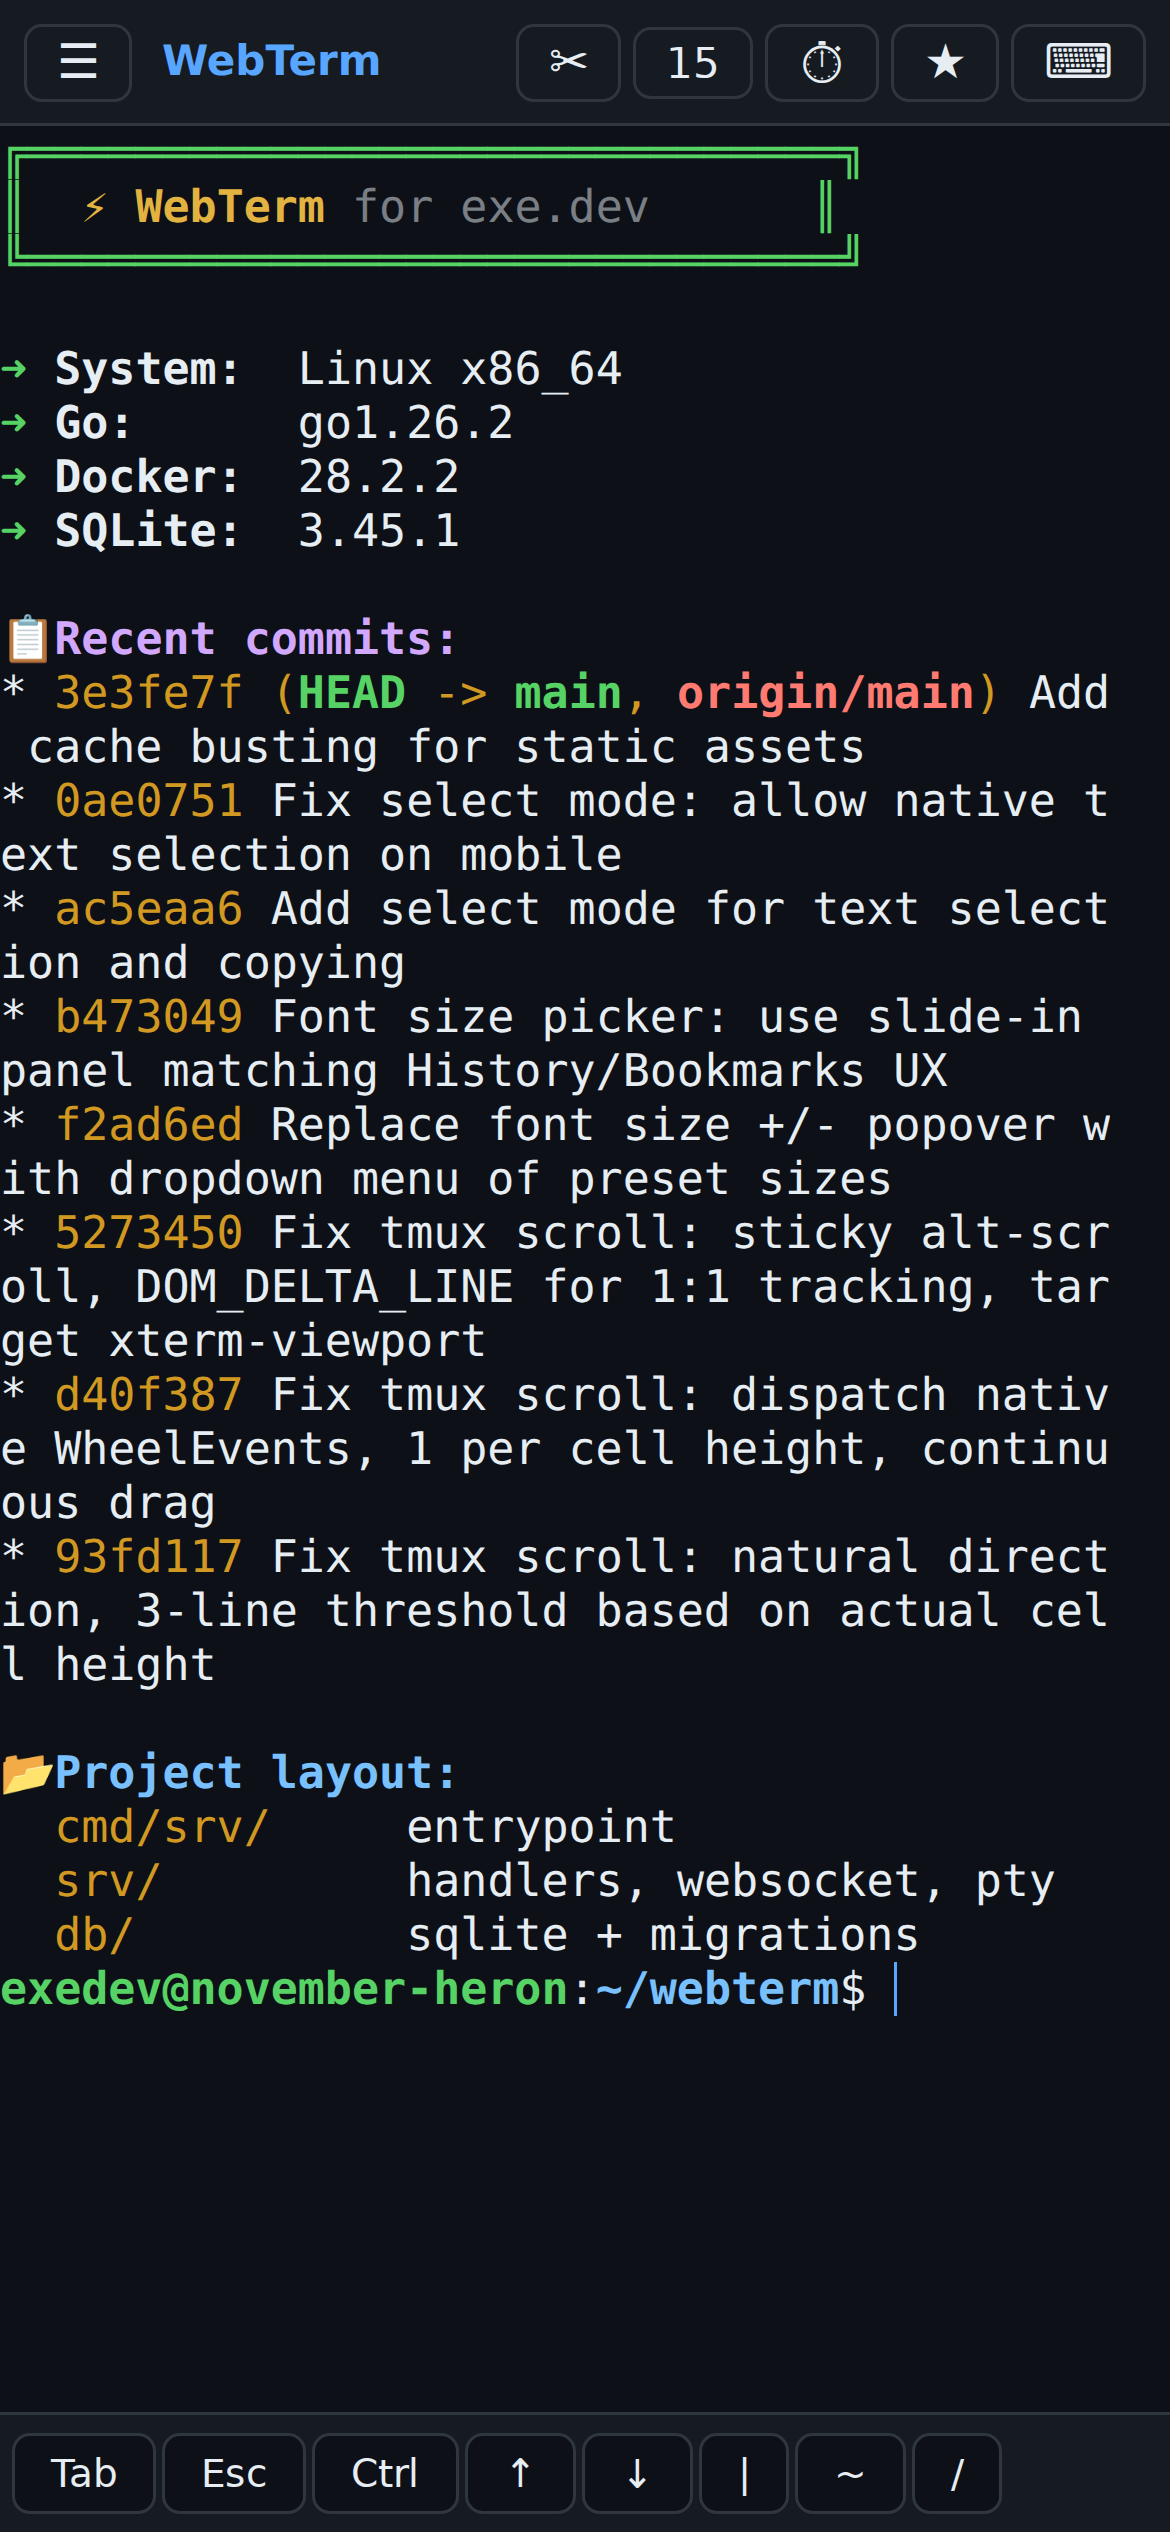
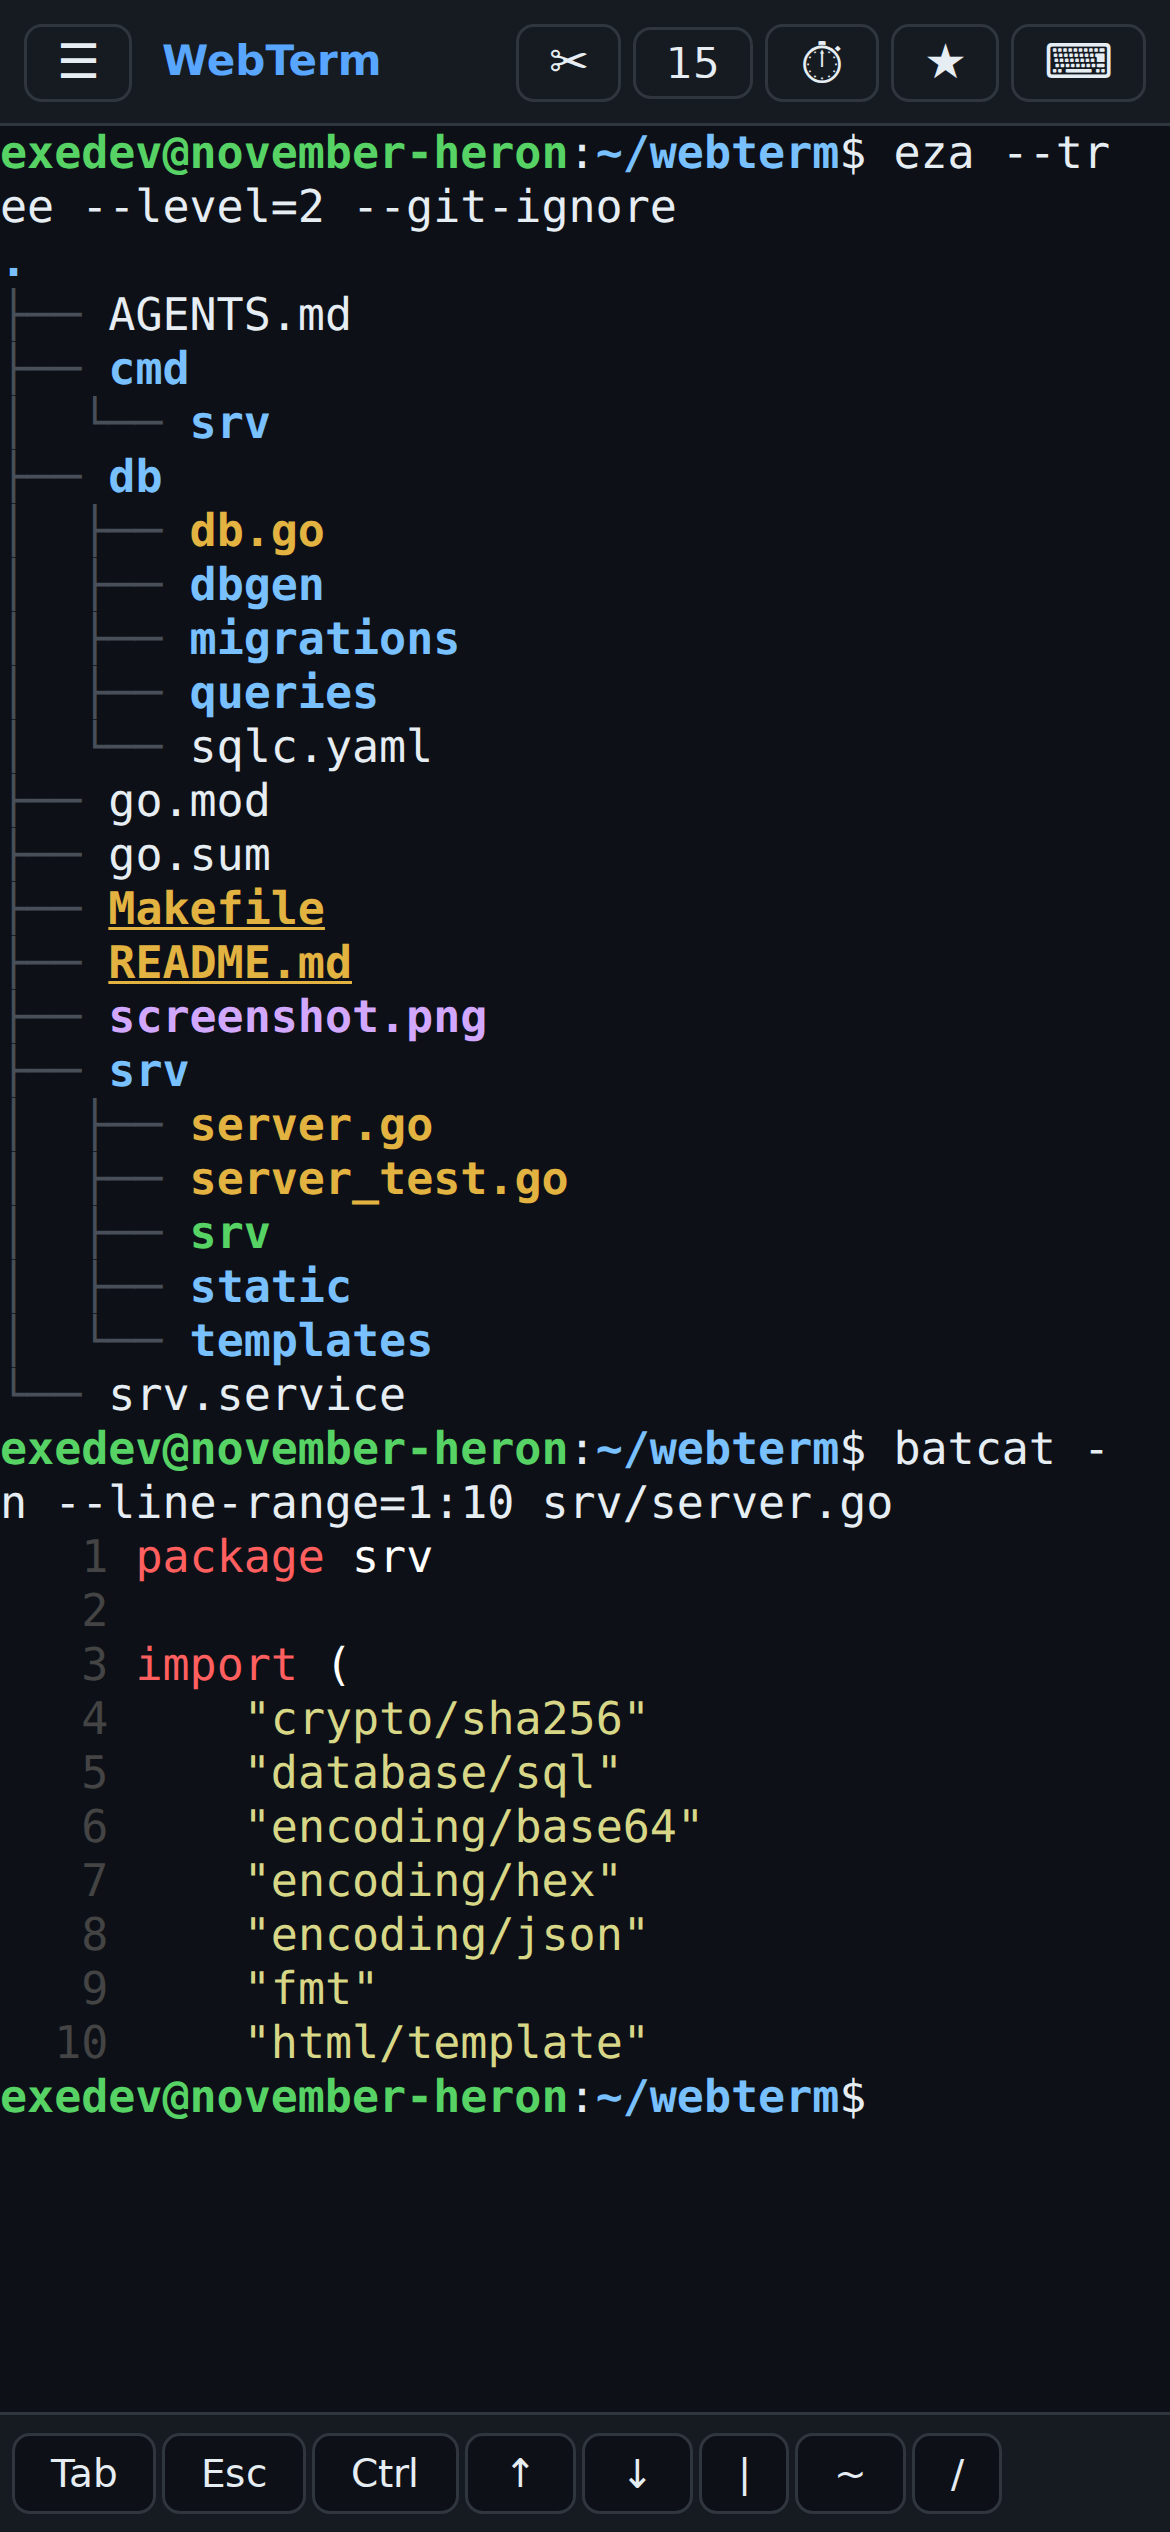
Add window.sendInput() helper; update screenshot
Expose window.sendInput(text) for programmatic terminal input from
devtools or browser automation. Useful for demos and testing.

Update README screenshot: real eza --tree and batcat output showing
the project structure and syntax-highlighted Go code on a mobile
viewport.

diff --git a/srv/static/script.js b/srv/static/script.js
@@ -34,6 +34,13 @@
     window.addEventListener('resize', debounce(fitTerminal, 100));
     // Expose for inline onclick
     window.closePanel = closePanel;
+
+    // Expose helper for programmatic input (e.g. from devtools / automation)
+    window.sendInput = function (text) {
+      if (ws && ws.readyState === WebSocket.OPEN) {
+        ws.send(JSON.stringify({ type: 'input', data: toBase64(text) }));
+      }
+    };
   }
 
 
